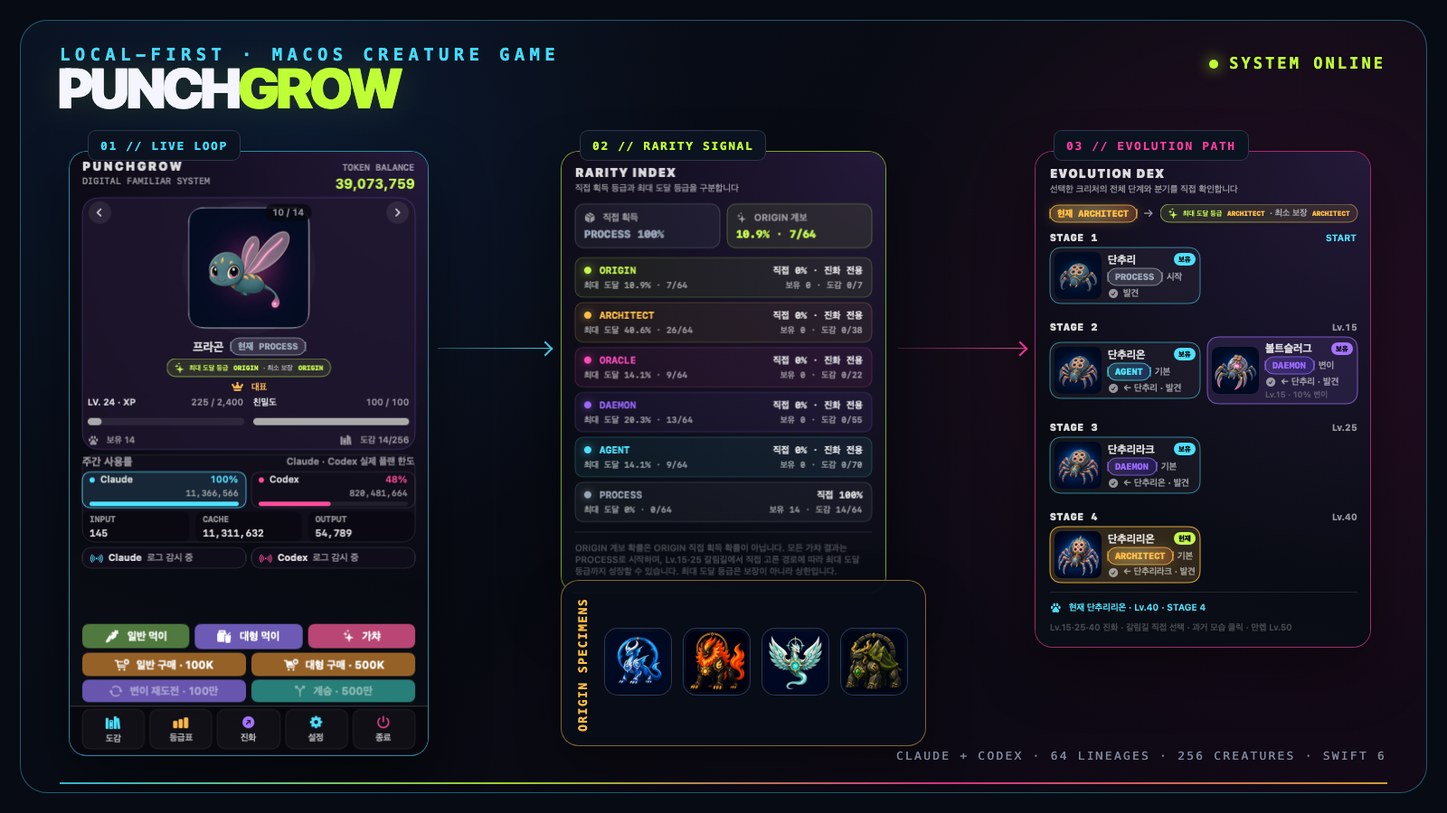
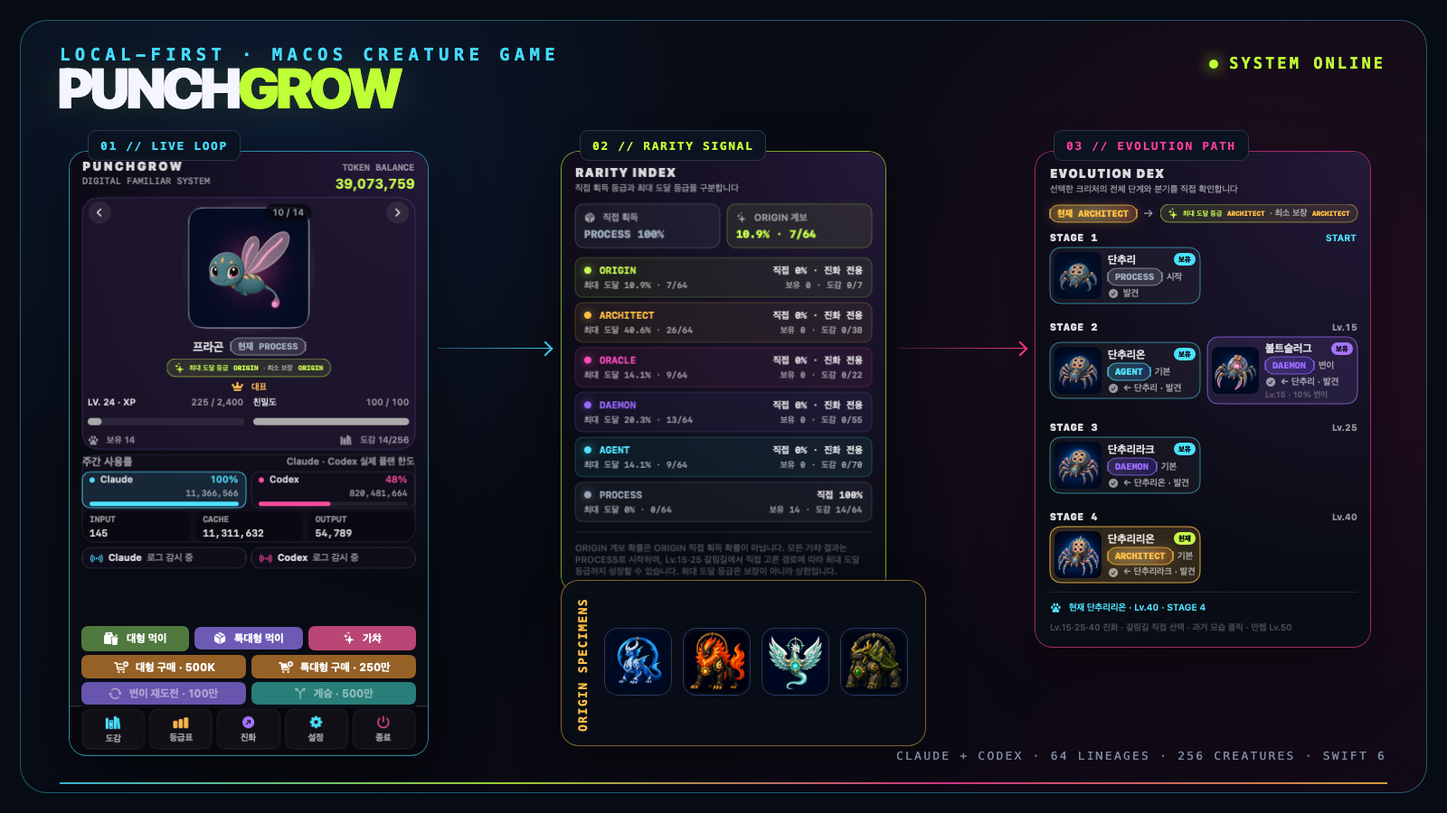
docs: document unreleased runtime and food changes
Separate Homebrew v0.4.0 behavior from current main, update bilingual guides and screenshots, and record the performance and durability decisions.

Changed region(s): [[0.0625, 0.7467, 0.2812, 0.8711]]

diff --git a/DESIGN.md b/DESIGN.md
@@ -3,7 +3,7 @@
 ## Source of truth
 
 - Status: Active
-- Last refreshed: 2026-08-14
+- Last refreshed: 2026-08-19
 - Primary product surfaces: macOS ambient menu-bar badge and popup, macOS large window, dedicated ORIGIN reveal window, public website (`/`, `/en/`), public creature dex (`/dex/`, `/en/dex/`), and retained mobile exploration
 - Evidence reviewed: `.omx/plans/prd-macos-ux-redesign.md`, `.omx/plans/test-spec-macos-ux-redesign.md`, `문서/WIREFRAMES.md`, `문서/DECISIONS.md`, the existing SwiftUI views, evolution catalog, creature assets, 398×670 populated/fresh-state menu snapshots, `website/` source and build contracts, public README/community files, and the deployed GitHub Pages response
 - Scope note: the approved PRD and wireframes remain authoritative for product behavior. This file summarizes their design contract.
@@ -17,7 +17,7 @@
 ## Product goals
 
 - Goals: make the current creature and grow/draw loop immediately understandable; distinguish current rarity from automatic-evolution potential at a glance; make integration state trustworthy; keep collection and data management easy to find; let a public visitor install, inspect source, understand privacy, explore the dex, or start contributing without guessing
-- Non-goals: shop, detailed statistics, combat, evolution, or economy changes in this macOS iteration
+- Non-goals: shop, detailed statistics, combat, evolution changes, or economy changes beyond the two-tier food redesign in this macOS iteration
 - Success signals: users can distinguish balance from usage, navigate creatures, choose a representative, understand disabled actions, and configure Claude/Codex without guessing; public visitors can identify the supported Mac, current alpha/release status, Homebrew and source-build paths, license boundary, and correct support/security route from the first page
 
 ## Personas and jobs
@@ -45,7 +45,7 @@
 
 ## Visual language
 
-- Color: near-black violet background, layered plum surfaces, lime growth accent, cyan Claude accent, magenta Codex accent; rarity tokens progress through slate PROCESS, cyan AGENT, violet DAEMON, magenta ORACLE, metallic amber ARCHITECT, and lime-cyan iridescent ORIGIN. The compact action deck uses muted, medium-dark semantic fills rather than full-bright provider/rarity accents: moss for normal food, violet for large food, rose for draw, amber for purchases, indigo for mutation retry, and teal for inheritance. All action labels use white for consistent contrast. The public website uses the same palette as a restrained digital-familiar specimen terminal, with readable muted text rather than decorative low-contrast gray.
+- Color: near-black violet background, layered plum surfaces, lime growth accent, cyan Claude accent, magenta Codex accent; rarity tokens progress through slate PROCESS, cyan AGENT, violet DAEMON, magenta ORACLE, metallic amber ARCHITECT, and lime-cyan iridescent ORIGIN. The compact action deck uses muted, medium-dark semantic fills rather than full-bright provider/rarity accents: moss for large food in the first slot, violet for extra-large food, rose for draw, amber for purchases, indigo for mutation retry, and teal for inheritance. All action labels use white for consistent contrast. The public website uses the same palette as a restrained digital-familiar specimen terminal, with readable muted text rather than decorative low-contrast gray.
 - Typography: strong geometric headings, monospaced micro-labels and values, readable Korean body copy; the dependency-free website uses truthful system sans/monospace stacks instead of naming fonts it does not ship
 - Spacing/layout rhythm: compact 8–16 point rhythm; large-window 12–24 point rhythm
 - Shape/radius/elevation: soft 10–18 point radii, subtle one-pixel borders, restrained colored glows for hierarchy
@@ -55,7 +55,7 @@
 ## Components
 
 - Existing components to reuse: SwiftUI navigation, buttons, progress views, AppKit file panels, bundled creature PNGs; website shell/header, hero, metrics, screenshots, ORIGIN cards, privacy terminal, code window, dex filters/cards/dialog, and shared CSS tokens
-- New/changed components: ambient menu-bar status label, compact presentation projection, one-line integration status chips, rarity-token creature hero with overlaid navigation and unified badge/frame/aura, automatic-evolution potential label, compact rarity/probability popover, three-row normal/large food, draw, retry, and inheritance action deck with press-and-hold acceleration, collection cards, settings panels, rarity feedback, ORIGIN-lineage feedback, ORIGIN reveal
+- New/changed components: ambient menu-bar status label, compact presentation projection, one-line integration status chips, rarity-token creature hero with overlaid navigation and unified badge/frame/aura, automatic-evolution potential label, compact rarity/probability popover, three-row large/extra-large food, draw, retry, and inheritance action deck with press-and-hold acceleration, collection cards, settings panels, rarity feedback, ORIGIN-lineage feedback, ORIGIN reveal
 - Menu-bar status label: a native-height, single-row ambient pet HUD with an 18-point representative creature plus independent cyan `C n%` and magenta `X n%` actual plan-limit percentages; unavailable provider quota data renders as an em dash rather than an estimate.
 - Variants and states: empty/one/many creatures; enabled/disabled actions; stopped/listening/recent/error integrations; ordinary pull, ORIGIN-lineage pull, and actual ORIGIN reveal feedback
 - Token/component ownership: macOS visual tokens and components remain in `macos/Sources/PunchGrowMenuBar/Views.swift`
@@ -73,7 +73,7 @@
 
 - Supported breakpoints/devices: macOS 14+; fixed compact popup and resizable large/reveal windows; website breakpoints target desktop, tablet, 390px mobile, and a 320px minimum and receive static source/build review when browser capture is unavailable
 - Layout adaptations: the 398×670 popup stays below the menu bar and its main play surface contains no scroll container. The populated and fresh states must show the complete hero, both provider percentages, both connection states, all seven actions, and all five dock destinations without clipping or action/dock overlap. Creature navigation overlays the artwork zone, mutation/evolution attention shares one priority slot, provider controls share one row, setup clarification stays to one visible line with full text in help, and compact labels remain at least 9.5 points while actionable/supporting copy remains at least 10.5 points. Detailed collection, rarity, evolution, and settings surfaces may use their own appropriately bounded scrolling.
-- Touch/hover differences: desktop-native focus, hover help, tooltips, and pointer-sized controls; normal/large feed and purchase use one click for one action and continuous press for accelerating repeat, with release stopping immediately
+- Touch/hover differences: desktop-native focus, hover help, tooltips, and pointer-sized controls; large/extra-large feed and purchase use one click for one action. A 240ms continuous press arms repeat at an 80ms interval, subtracting 8ms after each action to a 35ms minimum. Release immediately cancels further repeats; if one action is already committing, that commit finishes without scheduling another action.
 - Website adaptations: the 980px and 720px breakpoints collapse grids without horizontal overflow; touch targets remain at least 44px where compact controls are used; mobile navigation remains readable without JavaScript and becomes a controlled menu when JavaScript is present
 
 ## Interaction states
@@ -83,7 +83,7 @@
 - Error: visible text and symbol accompany error color
 - Success: a successful draw focuses the acquired creature and reports both `현재 <등급>` and `성장 잠재력 <최종 자동 진화 등급>`; an ORIGIN lineage receives distinct compact feedback without invoking the actual-ORIGIN reveal window
 - Disabled: cost or prerequisite explanations remain visible beside disabled actions
-- Repeated action: hold feedback remains native and stops immediately on pointer release, disable, inventory exhaustion, or insufficient balance
+- Repeated action: hold feedback remains native. Each repeated action is serialized through a persistence actor and reaches the visible state only after its save finishes, keeping file synchronization off the main actor. Pointer release, disable, inventory exhaustion, insufficient balance, or another blocked result prevents another repeat; an already-started commit may finish once.
 - Offline/slow network: integrations are local; stopped, listening, recent, and error states derive from the shared projection
 
 ## Content voice
@@ -96,11 +96,11 @@
 
 - Framework/styling system: SwiftUI plus existing AppKit bridges; dependency-free static HTML/CSS/JavaScript for the GitHub Pages website
 - Design-token constraints: extend repo-native constants; add no UI dependency or parallel design-system package
-- Performance constraints: reuse the bounded creature image cache for the menu-bar thumbnail, keep popup animation brief, and honor reduced motion; keep the website dependency-free, lazy-load non-hero images, debounce dex search, and allow off-screen lineage rendering to be skipped by the browser
-- Compatibility constraints: preserve G001 APIs, schema version 2 saves, probabilities, pity, and local-first security boundaries; older saves decode the new large-food inventory as zero. Preserve GitHub Pages routes, custom domain, locale parity, and direct asset/link validity.
+- Performance constraints: reuse the bounded creature image cache for the menu-bar thumbnail, keep popup animation brief, and honor reduced motion; serialize hold-repeat persistence on a dedicated actor so encoding, replacement, and `fsync` do not block the main actor; keep the website dependency-free, lazy-load non-hero images, debounce dex search, and allow off-screen lineage rendering to be skipped by the browser
+- Compatibility constraints: preserve G001 APIs, schema version 2 save compatibility, probabilities, pity, and local-first security boundaries. Legacy normal-food inventory converts deterministically: each group of five becomes one large food and every remainder refunds 100,000 tokens; older saves decode extra-large inventory as zero. Preserve GitHub Pages routes, custom domain, locale parity, and direct asset/link validity.
 - Test/screenshot expectations: deterministic presentation helpers cover semantic state; populated and fresh 398×670 menu snapshots reject any main-surface `NSScrollView` and verify that the complete third action row and five-item dock occupy their fixed bands; release build, full tests, and all 256 assets are verification gates when the Xcode/CLT toolchain is valid. Website changes must pass both build validators, metadata/content contracts, 320px static layout review, keyboard/reduced-motion review, and a browser capture when a browser session is available.
 - Compact popup bottom safety: retain at least 26 points of outer bottom breathing room plus 6 points inside the footer; keep the footer fixed at the bottom, place every play action fully above it, and open rarity/probability/evolution details in dedicated popovers rather than increasing the fixed 398×670 surface height or reintroducing main-surface scrolling
-- Food action deck: keep the draw action in the first row beside normal and large feeding; place normal and large purchases in a second compact row. Large food uses a distinct purple treatment and grants XP +200 / affection +10 for 500,000 tokens.
+- Food action deck: keep the draw action in the first row beside large and extra-large feeding; place large and extra-large purchases in a second compact row. Existing large food moves into the first slot unchanged at 500,000 tokens for XP +200 / affection +10. Extra-large food occupies the second slot at 2,500,000 tokens for XP +1,000 / affection +50, preserving exactly the same token efficiency.
 - Action color ownership: action-deck fills are dedicated `PunchGrowColors` tokens in `Views.swift`; do not reuse the brighter global provider, rarity, warning, or progress accents as solid button backgrounds.
 - Evolution potential contract: derive one automatic path from `EvolutionCatalog`'s production candidate order; never hard-code ORIGIN roots. A newly drawn start computes from that start, while an owned or branched creature computes forward from its actual current species; the root is used only to show the full Evolution Dex tree. The hero uses a separate one-line potential label, pull feedback distinguishes lineage potential from actual rarity, Evolution Dex visibly marks every current-forward automatic-path card, and the rarity guide separates `PROCESS 100% direct pull` from `ORIGIN lineage n/64`.
 

diff --git a/문서/DECISIONS.md b/문서/DECISIONS.md
@@ -629,3 +629,43 @@
 **왜:** `website/scripts/build.mjs`, Dockerfile, Compose, Expo Router, macOS CI와 100개 이상의 검증 스크립트가 현재 경로를 명시적으로 참조한다. 겉모양만 위해 폴더를 옮기면 공개 링크·빌드·감사 증거를 동시에 깨뜨릴 위험이 크다. 반면 역할 인덱스, 커뮤니티 템플릿, 중복 CNAME 제거와 배포 계약 검증은 현재 동작을 유지하면서 처음 방문한 사람이 저장소를 이해하는 비용을 크게 줄인다. 홈페이지가 소스 빌드만 가능하다고 말하면서 README는 Homebrew를 권장하던 불일치와, JavaScript 실패 시 `.reveal` 콘텐츠 전체가 사라지던 구현은 공개 신뢰를 직접 해치므로 같은 범위에서 바로잡는다.
 
 **이전 결정과의 관계:** 2026-08-12의 GitHub Pages·`punchgrow.thundo.kr` 결정을 운영 가능한 공개 문서 표면으로 완성한다. 기존 Expo 모바일 앱 유지, macOS 우선순위, GitHub Pages 정적 호스팅과 백엔드 미포함 원칙은 바꾸지 않는다.
+
+### 2026-08-18 — 로컬 우선 원칙을 실행·파일·네트워크 신뢰 경계로 강제한다
+
+**결정:** Claude 사용량 새로고침은 사용자가 수집에 명시적으로 동의한 뒤에만 실행 파일을 찾고 프로세스를 시작하며, 취소 시 전용 프로세스 그룹 전체를 종료한다. 상태·캐시·Claude/Codex 로그는 크기 상한을 둔 일반 파일만 읽고, 신뢰한 디렉터리 descriptor에서 각 하위 경로를 `openat` + `O_NOFOLLOW`로 열어 심볼릭 링크와 경로 교체를 따라가지 않는다. 계속 쓰이는 JSONL은 처음 확보한 device·inode와 크기 경계까지만 읽는다. 앱이 관리하는 상태·캐시는 디렉터리 `0700`, 파일 `0600`으로 제한하고 임시 파일을 같은 디렉터리에 완전히 쓴 뒤 `fsync`와 `renameat`으로 교체한다. 연결 해제 시에도 같은 descriptor 경계 안에서 일반 파일만 `unlinkat`으로 지우며, 크래시로 남은 정확한 UUID 임시 캐시 이름까지 함께 지우되 유사 이름·심볼릭 링크·디렉터리·부모 경로 교체는 거부한다. 사용자가 직접 고른 백업 파일은 기존 제품 권한 모델을 유지하되 최종 파일 심볼릭 링크와 과대 파일을 거부한다.
+
+웹 실험 API는 기본적으로 `127.0.0.1`에만 열고 구현되지 않은 외부 인증 모드는 거부한다. 세션 발급은 주소별·전체 속도 제한을 적용하고, 토큰 수집기는 32바이트 이상 비밀값이 명시된 경우에만 활성화하며 브라우저 프록시가 그 비밀값을 전달하지 못하게 한다. CORS는 설정한 정확한 origin만 허용한다. 공개 정적 사이트는 인라인 스타일 없이 잠긴 CSP와 `no-referrer` 정책을 사용한다. 업데이트 응답과 릴리스 링크는 PunchGrow의 정확한 GitHub HTTPS 경로만 신뢰한다.
+
+CI 액션과 Docker 실행 기반 이미지는 검증한 digest로 고정하고, 알려진 패치가 있는 전이 의존성은 override로 올린다. 현재 Metro가 끌어오는 `image-size`의 ICNS/JXL/HEIF DoS는 패치 릴리스가 없으므로 강제 Expo 다운그레이드를 하지 않는다. PunchGrow 빌드 입력은 저장소의 검증된 PNG 자산으로 한정되어 해당 파서를 호출하지 않는다는 전제 아래 잔여 위험으로 기록하고, 상위 패키지에 호환 패치가 나오면 갱신한다.
+
+**왜:** 기존 코드는 대부분 로컬 데이터만 다뤘지만, 로컬이라는 설명만으로는 동의 전 외부 프로세스 실행, 심볼릭 링크를 통한 범위 이탈, 실수로 공개된 개발 서버, 공급망 태그 이동을 막지 못한다. 제품 문서의 개인정보 약속을 코드가 직접 집행하고, 정상적인 append-only 로그 처리와 Expo 57 호환성을 유지하면서 실제 공격 표면만 닫기 위해 경계를 각각 독립적으로 고정한다.
+
+### 2026-08-19 — 10초 수집 주기를 유지하되 변한 데이터만 읽고 쓴다
+
+**결정:** Claude·Codex 로컬 사용량의 10초 스캔 주기, 프로바이더별 4MB 본문 읽기 예산, 백로그 처리 규칙은 유지한다. 대신 스캔 결과가 기존 캐시와 같으면 디스크에 다시 쓰지 않고, 앱 전용 캐시는 개행·정렬 없는 압축 JSON과 소수 초를 보존하는 Unix 초 숫자로 저장한다. 기존 ISO 8601 pretty JSON은 하위 호환 디코더로 계속 읽는다.
+
+Codex 주간 한도를 갱신하는 1MB 테일 읽기는 캐시된 `observedAt + 5초`보다 수정 시각이 늦은 파일만 후보로 삼고, 기존과 같이 최대 32개만 최신 순으로 읽는다. 캐시된 한도가 없는 첫 실행에는 안전한 초기화를 위해 기존처럼 최신 32개를 읽는다. 파일 식별자를 별도로 영구 캐시하는 복잡도는 실제 부하가 다시 확인될 때까지 추가하지 않는다.
+
+**왜:** Apple M4·16GB, JSONL 1,251개·약 17.6GB 환경에서 유휴 시 CPU는 0%로 안정됐고 앱 이미지 캐시나 지속적인 메모리 누수는 관찰되지 않았다. 반면 10~11초마다 스캔이 시작될 때 최대 32MB의 Codex 테일을 다시 읽고 5.36MB 캐시를 교체하는 일이 반복됐다. 수정 후 캐시는 3.89MB로 27% 줄었고, 동일 앱 교차 측정에서 2분 당 CPU 시간은 4.97→3.87초(-22%), 디스크 읽기는 305→150MiB(-51%), 메모리 footprint 95백분위는 121→87MiB(-28%)로 줄었다. 수집 정확도·실시간성·개인정보 경계는 그대로 유지하고 반복 I/O만 제거한다.
+
+### 2026-08-19 — macOS 먹이는 대형·특대형 두 단계로 단순화한다
+
+**결정:** macOS에서 일반 먹이의 구매·급여 UI를 제거한다. 기존 대형 먹이는 가격 500,000토큰, XP +200, 친밀도 +10을 그대로 유지한 채 첫 번째 먹이 슬롯으로 옮긴다. 두 번째 슬롯에는 특대형 먹이를 추가한다. 특대형은 2,500,000토큰에 XP +1,000, 친밀도 +50을 주는 대형의 정확한 5배 묶음으로, 두 먹이의 토큰당 효율은 같다.
+
+기존 세이브에 남은 일반 먹이는 5개당 대형 먹이 1개로 전환하고, 5개 미만 나머지는 1개당 100,000토큰을 환급한다. 구매·급여 버튼은 클릭 시 1회 실행하고, 240ms 동안 누르면 80ms 간격으로 반복을 시작한다. 반복할 때마다 간격을 8ms씩 줄여 최소 35ms까지 가속하며, 포인터를 떼거나 잔액 부족·인벤토리 소진·만렙에서 친밀도 100 도달·진화 선택 대기처럼 동작이 막히면 즉시 멈춘다. 만렙이어도 친밀도가 남아 있으면 급여할 수 있다는 기존 규칙은 유지한다.
+
+**왜:** 일반 먹이는 대형보다 조작 횟수가 많으면서 성장 효율도 낮아, 첫 슬롯이 사실상 저효율 반복 작업을 권하는 구조였다. 대형을 기본 단위로 올리고 특대형을 동일 효율의 5배 묶음으로 두면 선택 기준은 성장 효율이 아니라 원하는 지출·성장 단위가 된다. 레거시 일반 먹이를 5:1 전환하고 나머지를 원래 구매가로 환급하면 사용자가 이미 지불한 토큰 가치도 정확히 보존된다. 짧은 무반응 구간 뒤 빠르게 가속하는 고정 타이밍은 단일 클릭을 보존하면서 대량 구매·급여의 대기 시간을 줄인다.
+
+**이전 결정과의 관계:** 2026-08-05의 대형 먹이 후속 확정 중 일반·대형 병행 UI와 기존 반복 조작 규칙을 대체한다. 대형 먹이 자체의 가격·효과·별도 인벤토리 원칙은 유지한다.
+
+### 2026-08-19 — 반복 저장은 직렬 커밋 뒤 화면에 반영한다
+
+**결정:** 길게 누르기 구매·급여의 저장은 전용 `GameStatePersistenceWriter` actor에서 한 번에 하나씩 직렬 처리한다. JSON 인코딩, 임시 파일 쓰기, 파일 `fsync`, atomic rename과 디렉터리 `fsync`는 `MainActor`를 점유하지 않는다. 화면 상태와 급여·진화 피드백은 해당 동작의 저장 결과가 돌아온 뒤에만 한 번 반영한다. rename 전에 저장이 실패하면 화면 상태를 바꾸지 않고 반복을 중단한다.
+
+포인터를 떼면 새 반복 예약은 즉시 취소한다. 이미 writer actor에서 진행 중인 1회 커밋은 끝까지 마친 뒤 그 결과만 화면에 반영하며, 그 뒤에는 추가 구매·급여를 실행하지 않는다. 따라서 해제 직전 시작한 동작이 사라지거나 같은 상태에서 한 번 더 실행되는 일 없이, 디스크와 화면이 동작 단위로 함께 전진한다.
+
+atomic rename이 성공한 뒤 디렉터리 `fsync` 확인만 실패한 경우는 미커밋 실패로 취급하지 않는다. rename 시점에 새 파일이 이미 라이브 상태이므로 새 상태를 화면에 반영하고 저장 잠금과 경고를 켠다. 이후 구매·급여·가챠·진화 선택 등 게임 상태 변경은 차단하고, **Data & Settings**에서 백업을 복원해야 잠금을 해제한다.
+
+**왜:** 35ms까지 가속되는 반복마다 동기 저장을 `MainActor`에서 실행하면 파일 쓰기와 `fsync` 동안 버튼 해제·화면 갱신이 지연된다. 반대로 화면부터 바꾸고 저장하면 실패 시 보였던 결과를 되돌려야 하며, 디스크와 메모리가 갈라질 수 있다. 특히 rename 뒤 디렉터리 `fsync` 실패를 평범한 저장 실패로 되돌리면 디스크에는 새 상태가 있는데 화면은 이전 상태에 머물러, 재시도할 때 토큰 차감이나 급여가 중복될 수 있다. 직렬 저장 후 공개와 post-rename 경고 잠금은 반응성과 단일 커밋 의미를 함께 지킨다.
+
+**이전 결정과의 관계:** 같은 날의 "macOS 먹이는 대형·특대형 두 단계로 단순화한다"에서 정한 240ms/80ms/35ms/8ms 타이밍은 바꾸지 않고, 포인터 해제와 저장 완료의 순서를 명확히 한다. 2026-08-18의 descriptor 기반 atomic write·`fsync` 원칙은 유지하되, rename 이후 디렉터리 동기화 확인 실패의 화면·잠금 처리를 추가한다.

diff --git a/문서/PRD.md b/문서/PRD.md
@@ -35,8 +35,10 @@ Claude Code 토큰 사용량 + 무료 보상
 - 토큰은 누적 활동 점수만이 아니라 실제로 소비하는 잔액이다.
 - 가챠를 실행하거나 크리처 육성에 필요한 아이템을 구매하면 토큰이 차감된다.
 - MVP 기본 육성 아이템은 `먹이(경험치 상승)`, `훈련 도구(특정 스탯 상승)`, `진화 재료(진화 조건 충족)`로 구성한다.
-- macOS MVP에서 먹이 1개는 보유 토큰 100,000개로 구매한다. 팝업의 `먹이 +1` 액션에서 즉시 구매하며, 잔액 차감과 인벤토리 증가는 하나의 저장 작업으로 처리한다.
-- macOS MVP의 `대형 먹이`는 일반 먹이와 별도 보관하며 1개당 500,000 토큰이다. 사용 시 XP +200, 친밀도 +10을 주고, 구매·급여 모두 길게 눌러 가속 연속 실행할 수 있다. 기존 스키마 2 세이브에는 대형 먹이 수량을 0으로 보완한다.
+- macOS MVP는 `대형 먹이`를 첫 번째 먹이 슬롯에 둔다. 1개당 500,000토큰이며 사용 시 XP +200, 친밀도 +10을 준다.
+- macOS MVP의 `특대형 먹이`는 대형 먹이와 별도 보관한다. 1개당 2,500,000토큰이며 사용 시 XP +1,000, 친밀도 +50을 주는 정확한 5배 묶음이라 토큰당 효율은 대형 먹이와 같다.
+- macOS의 구매·급여 버튼은 클릭 시 1회 실행한다. 240ms 동안 누르면 80ms 간격으로 반복을 시작하고, 실행할 때마다 간격을 8ms씩 줄여 최소 35ms까지 가속한다. 손을 떼거나 잔액·인벤토리·성장 상태 때문에 동작이 막히면 즉시 멈춘다.
+- 기존 macOS 세이브의 일반 먹이는 5개당 대형 먹이 1개로 전환하고, 나머지는 1개당 100,000토큰을 환급한다. 전환과 환급은 한 번만 적용하며 기존 구매 가치를 보존한다. 특대형 먹이 수량이 없는 기존 세이브는 0으로 보완한다.
 - 첫 버전부터 다음 아이템 범주를 모두 포함한다.
   - 먹이: 경험치 상승
   - 훈련 도구: 특정 스탯 상승
@@ -324,6 +326,9 @@ https://chattymin.github.io/PokeTokenBar — macOS 메뉴바 앱, 로컬 CLI 로
 - 변이(25종)는 선택 대상이 아니다. 해당 계보에 변이 후보가 있는 개체가 Lv.15에서 S1→S2로 진화하는 순간마다 10% 확률로 발동해 수락/거절을 묻는다. 수락하면 변이체(그 자리에서 성장이 끝나는 종착 종)로 진화하고, 거절하면 원래 선택·예약해 둔 대상으로 이어진다. 강제 변이는 없다.
 - 변이를 만날 기회를 지나친 개체는 회당 1,000,000토큰·10%, 계보당 30회 실패 시 확정 성공하는 `변이 재도전`으로 그 계보의 변이체를 새 개체로 다시 노릴 수 있다. `계승`(5,000,000토큰)은 종착 종에 도달한 개체를 대상으로 같은 계보의 시작형 신규 개체를 얻어 다른 일반 분기를 다시 육성하는 용도로 쓰인다.
 - 새 성장 만렙은 Lv.50이다. 기존 Lv.51~100 저장은 유지하되 추가 레벨 상승은 없다.
+- 먹이는 대형·특대형 두 종류만 제공한다. 대형은 500,000토큰에 XP +200·친밀도 +10, 특대형은 2,500,000토큰에 XP +1,000·친밀도 +50이며 두 종류의 토큰당 효율은 같다. 대형은 기존 첫 번째 먹이 슬롯을 사용한다.
+- 대형·특대형 구매와 급여는 클릭 1회 또는 가속 반복을 지원한다. 반복은 240ms 누름 후 80ms 간격으로 시작하고 실행마다 8ms씩 단축되어 최소 35ms가 되며, 손을 떼거나 동작이 막히면 즉시 끝난다.
+- 레거시 일반 먹이 인벤토리는 5:1로 대형 먹이로 바꾸고, 나머지는 개당 100,000토큰으로 환급한다.
 - 만렙 도달은 골드 축전으로 표시한다 — 급여로 50에 도달하는 전이 순간에만 `LEVEL MAX` 토스트가 한 번 뜨고, 만렙 개체(레거시 Lv.51~100 포함)는 메인 카드의 포트레이트 테두리·LV 게이지가 골드로 유지되며 크리처 이미지 안의 머리 위에 배경·배지 없는 금색 왕관을 쓴다. 왕관은 종·등급·진화 단계와 무관하게 만렙인 모든 보유 개체에 공통 적용한다. 능력치·토큰 보상은 없다.
 - 먹이 한 번으로 여러 진화 기준을 이미 충족한 기존 개체는 가능한 단계를 순서대로 따라잡는다. 다만 그 과정에서 변이 확률이 발동하면 진화를 적용하기 전에 멈추고 수락/거절을 먼저 물은 뒤 나머지 단계를 이어간다 — 이 경우 연쇄 진화가 급여 2회로 나뉠 수 있다.
 - 진화는 개체 ID, 레벨, XP 잔여분, 친밀도, 별명, 유니크 컬러, 획득일과 대표 지정을 유지하고 종 ID와 발견 도감만 갱신한다.

diff --git a/CHANGELOG.md b/CHANGELOG.md
@@ -2,6 +2,29 @@
 
 ## Unreleased
 
+### Added
+
+- macOS에 `특대형 먹이`를 추가했습니다. 2,500,000토큰으로 구매하며 XP +1,000·친밀도 +50을 올려, 대형 먹이와 같은 토큰당 효율로 5배 단위를 한 번에 처리합니다.
+
+### Changed
+
+- macOS 먹이 구성을 대형·특대형 두 단계로 단순화했습니다. 기존 일반 먹이는 저장을 처음 불러올 때 5개당 대형 먹이 1개로 바꾸고 나머지는 개당 100,000토큰으로 한 번만 환급합니다.
+- 구매·급여를 240ms 누르면 80ms 간격으로 반복을 시작하고 실행마다 8ms씩 줄여 최소 35ms까지 가속합니다. 각 반복은 저장이 끝난 뒤 화면에 반영하며, 손을 떼면 저장 중인 1회만 마치고 추가 실행을 예약하지 않습니다.
+- 10초 사용량 수집 주기와 읽기 예산은 유지하면서, 결과가 바뀌지 않은 스캔은 캐시 파일을 다시 쓰지 않고 Codex 주간 한도는 캐시 시각보다 새로 수정된 로그만 후보로 읽습니다. 캐시는 더 작은 JSON 형식으로 저장하되 기존 ISO 8601 형식도 계속 읽습니다.
+- Claude 사용률 캐시 새로고침은 로그인 셸을 실행하지 않고 Homebrew·Volta·nvm·asdf·mise의 고정 설치 경로에서 Node를 찾도록 바꿨습니다.
+
+### Security
+
+- macOS 상태·사용량 캐시·Claude/Codex 로그를 신뢰한 디렉터리 안에서만 열고 심볼릭 링크, 경로 교체, 비정상 파일과 크기 초과를 거부합니다. 앱 관리 디렉터리·파일 권한을 제한하고 저장·삭제를 같은 디렉터리의 descriptor 경계 안에서 원자적으로 처리하며, 백업 복원도 심볼릭 링크와 20MB 초과 파일을 거부합니다.
+- 사용량 수집이 꺼져 있으면 Claude 새로고침용 Node 탐색과 프로세스 실행을 하지 않으며, 취소·시간 초과 시 전용 프로세스 그룹을 종료합니다. 업데이트 응답과 릴리스 노트 링크는 PunchGrow의 정확한 GitHub HTTPS 경로만 신뢰합니다.
+- 로컬 웹 실험 API는 기본적으로 `127.0.0.1`에만 열리고, 구현되지 않은 외부 인증 모드를 거부하며, 세션 발급 속도를 제한합니다. 토큰 수집은 32바이트 이상의 `COLLECTOR_SECRET`이 있을 때만 켜지고, CORS와 웹 프록시는 허용한 origin·header만 전달합니다.
+- 공개 사이트에 잠긴 CSP와 `no-referrer` 정책을 적용하고 배포 산출물의 인라인 스타일·허용되지 않은 스크립트·심볼릭 링크를 검증합니다. CI 액션과 Docker 기반 이미지를 commit·digest로 고정하고, `js-yaml`과 `nanoid`를 패치 버전으로 올렸습니다.
+
+### Fixed
+
+- 레벨 50·친밀도 100인 크리처에게 먹이를 써도 인벤토리만 줄어들던 동작을 막았습니다. 레벨 50이어도 친밀도가 남아 있으면 계속 먹일 수 있습니다.
+- 길게 누르기 반복 중 저장 실패가 나면 화면 상태를 바꾸지 않고 멈추며, 저장 완료 전에 백업 내보내기·복원이 끼어들지 못하게 했습니다. 파일 교체 뒤 디렉터리 동기화 확인만 실패한 경우에는 이미 반영된 상태를 유지하고 추가 변경을 잠가 중복 차감·급여를 방지합니다.
+
 ## 0.4.0 — 2026-08-18
 
 ### Added

diff --git a/docs/USAGE.en.md b/docs/USAGE.en.md
@@ -94,12 +94,20 @@ The first scan creates a **non-crediting baseline**. Current-week activity found
 
 ### Buy and feed food
 
+> **Version note:** Homebrew `v0.4.0` provides normal food at 100,000 tokens for XP +25 / affinity +3 and large food at 500,000 tokens for XP +200 / affinity +10. Its hold repeat arms after 360ms, starts at 110ms intervals, and accelerates to a 45ms minimum. The large/extra-large model below is available only on current `main` and is planned for the next release.
+
 | Item | Purchase | Growth |
 | --- | ---: | --- |
-| Normal food | 100,000 tokens | XP +25, affinity +3 |
 | Large food | 500,000 tokens | XP +200, affinity +10 |
+| Extra-large food | 2,500,000 tokens | XP +1,000, affinity +50 |
 
-Use **일반 구매** or **대형 구매** to add food to inventory, then use **일반 먹이** or **대형 먹이** on the currently displayed creature. A click performs one action. Press and hold a purchase or feed button to repeat the action at an accelerating rate; release to stop.
+Use **대형 구매 · 500K** or **특대형 구매 · 250만** to add food to inventory, then use **대형 먹이** or **특대형 먹이** on the currently displayed creature. Extra-large food costs and grants exactly five times as much as large food, so both tiers have the same token efficiency.
+
+A click performs one action. Holding starts repetition after 240ms. The repeat interval starts at 80ms, decreases by 8ms after each action, and stops decreasing at 35ms. Releasing the button immediately cancels further repeats. If one action is already being saved, that one save finishes and publishes its result, but no additional action runs. Each repeated result appears only after its save finishes.
+
+Repeating stops when tokens or food run out, or when a level-50 creature reaches 100 affinity. A level-50 creature with affinity remaining can still be fed. Feeding is blocked while a level-50 creature awaits an evolution choice.
+
+When current `main` loads a legacy save, every five normal-food items become one large food. Each remaining normal-food item refunds 100,000 tokens, preserving its original purchase value.
 
 ### Current rarity and maximum reachable rarity
 
@@ -168,6 +176,8 @@ In **Data & Settings**:
 - Select **백업 복원** (Restore backup) to load a compatible `.pgrow` file.
 
 A backup includes creatures, tokens, progression, inventory, and normalized usage numbers. It does not include prompts, responses, source code, commands, or raw local log content. Keep your `.pgrow` file before moving to another Mac or erasing local app data.
+
+If PunchGrow replaces the state file but cannot confirm the final directory sync, it keeps the already-committed result visible and shows a warning. Further game changes remain locked until you restore a backup from **Data & Settings**.
 
 ## Update checks and notifications
 

diff --git a/README.md b/README.md
@@ -46,7 +46,7 @@
 
 | 릴리스 v0.4.0 | 현재 main |
 | --- | --- |
-| **2026-08-18 Homebrew 릴리스**<br />64개 시작 계보 · 256종 · 64개 중 ORIGIN 도달 계보 7개(약 10.9%)<br />ad-hoc 서명 · Developer ID 서명과 Apple 공증 예정 | **현재 소스·공개 도감**<br />64개 시작 계보 · 256종 · 64개 중 ORIGIN 도달 계보 7개(약 10.9%)<br />릴리스와 동일한 카탈로그 |
+| **2026-08-18 Homebrew 릴리스**<br />64개 시작 계보 · 256종 · 64개 중 ORIGIN 도달 계보 7개(약 10.9%)<br />일반·대형 먹이 · ad-hoc 서명 | **현재 소스·공개 도감**<br />릴리스와 동일한 64개 시작 계보 · 256종<br />대형·특대형 먹이와 더 빠른 길게 누르기 · 다음 릴리스 예정 |
 
 - **CI:** Full Xcode 환경에서 Swift 테스트, Release 빌드, 256개 크리처 리소스 조립과 ad-hoc 코드서명을 검증합니다.
 - **웹사이트:** [`punchgrow.thundo.kr`](https://punchgrow.thundo.kr)은 `website/`에서 GitHub Pages로 배포하는 정적 제품 소개·도감이며, 백엔드나 사용량 수집 기능이 없습니다.
@@ -145,13 +145,17 @@ macOS 앱은 로컬에서 실행되며 사용자가 명시적으로 활성화하
 <a name="game-engine"></a>
 ## 게임 규칙
 
-| 규칙 | 알파 기준 |
+> [!NOTE]
+> 아래 먹이 구성과 기존 일반 먹이 전환은 `v0.4.0` 이후의 현재 `main` 기준입니다. Homebrew `v0.4.0`은 일반·대형 먹이를 제공합니다.
+
+| 규칙 | 현재 main 기준 |
 | --- | --- |
 | 가챠 1회 | `500,000` 토큰 |
 | 가챠 결과 | 64종 PROCESS 시작형 중 하나 · PROCESS 100% |
 | ORIGIN 계보 | 64개 중 7개 · 최대 도달 등급 약 10.9% (직접 ORIGIN 뽑기 아님) |
-| 일반 먹이 | 구매 `100,000` 토큰 · XP `+25` · 친밀도 `+3` |
 | 대형 먹이 | 구매 `500,000` 토큰 · XP `+200` · 친밀도 `+10` |
+| 특대형 먹이 | 구매 `2,500,000` 토큰 · XP `+1,000` · 친밀도 `+50` (대형의 정확히 5배) |
+| 기존 일반 먹이 전환 | 5개당 대형 먹이 1개 · 남은 수량은 개당 `100,000` 토큰 환급 |
 | 유니크 컬러 | 매 가챠 `0.1%`, 능력 차이 없음 |
 | 중복 크리처 | 자동 분해 없이 별도 개체로 보유하고 서로 다르게 육성 가능 |
 | 진화 레벨 | Lv.15 → 2단계 · Lv.25 → 3단계 · Lv.40 → 4단계 |

diff --git a/README.en.md b/README.en.md
@@ -46,7 +46,7 @@
 
 | Release v0.4.0 | Current main |
 | --- | --- |
-| **2026-08-18 Homebrew release**<br />64 starting lineages · 256 creatures · 7 of 64 lineages can reach ORIGIN (about 10.9%)<br />Ad-hoc signed · Developer ID signing and Apple notarization pending | **Current source and public dex**<br />64 starting lineages · 256 creatures · 7 of 64 lineages can reach ORIGIN (about 10.9%)<br />Catalog matches the release |
+| **2026-08-18 Homebrew release**<br />64 starting lineages · 256 creatures · 7 of 64 lineages can reach ORIGIN (about 10.9%)<br />Normal and large food · ad-hoc signed | **Current source and public dex**<br />The same 64 starting lineages · 256 creatures<br />Large and extra-large food with faster press-and-hold · planned for the next release |
 
 - **CI:** Full Xcode verifies the Swift test suite, Release build, 256-creature resource assembly, and ad-hoc signature.
 - **Website:** [`punchgrow.thundo.kr`](https://punchgrow.thundo.kr/en/) is a static product site and dex deployed from `website/` through GitHub Pages. It has no backend or usage collection.
@@ -145,13 +145,17 @@ These are captures rendered by the current SwiftUI app. They use fixed documenta
 <a name="game-engine"></a>
 ## Game rules
 
-| Rule | Alpha value |
+> [!NOTE]
+> The food tiers and legacy normal-food conversion below describe current `main` after `v0.4.0`. Homebrew `v0.4.0` provides normal and large food.
+
+| Rule | Current main |
 | --- | --- |
 | One draw | `500,000` tokens |
 | Draw result | One of 64 PROCESS stage-one creatures · PROCESS 100% |
 | ORIGIN lineage | 7 of 64 starts · about 10.9% maximum reachable rarity, not a direct ORIGIN pull |
-| Normal food | Costs `100,000` tokens · XP `+25` · affinity `+3` |
 | Large food | Costs `500,000` tokens · XP `+200` · affinity `+10` |
+| Extra-large food | Costs `2,500,000` tokens · XP `+1,000` · affinity `+50` (exactly 5× large food) |
+| Legacy normal-food conversion | 5 items become 1 large food; each remainder refunds `100,000` tokens |
 | Unique color | Independent `0.1%` chance per draw, with no stat advantage |
 | Duplicate creatures | Kept as separate individuals that can be raised differently |
 | Evolution levels | Level 15 → stage 2 · level 25 → stage 3 · level 40 → stage 4 |

diff --git a/문서/IMPLEMENTATION_STATUS.md b/문서/IMPLEMENTATION_STATUS.md
@@ -1,6 +1,6 @@
 # PunchGrow 구현 현황
 
-기준 시각: 2026-08-11. 이 문서는 완료를 과장하지 않고 현재 실행 가능한 범위와 남은 차단점을 기록한다.
+기준 시각: 2026-08-19. 이 문서는 완료를 과장하지 않고 현재 실행 가능한 범위와 남은 차단점을 기록한다.
 
 ## 현재 실행 가능한 것
 
@@ -8,7 +8,7 @@
 - Node API: HMAC 서명 세션, 수집기 비밀키, 개인정보 필드 거부형 토큰 적립, 중복 방지, 주간 활동 보너스, 500,000토큰 가챠, 300회 실패 후 다음 ORIGIN 천장, 유니크 컬러 0.1%, 먹이 성장.
 - 웹 MVP: 실제 PostgreSQL 데이터로 주간 사용량, 잔액, 가챠, 천장, 보유 크리처, 도감, 먹이 성장을 표시한다.
 - Expo 기반: iOS·Android·Web 공용 화면이 같은 API의 실제 상태를 읽고 가챠와 먹이를 실행한다. `Cute Clarity v2` 기본 240종과 원초 계보 16종 카드 이미지, 가상화 도감, 미발견 실루엣, 안전 영역과 기본 접근성을 포함한다.
-- macOS 소스: SwiftUI `MenuBarExtra`, 실제 256종 이미지, 로컬 게임/백업, 제한 메모리 JSONL 자동 수집, 실제 Claude/Codex 주간 플랜 사용률, 일반·대형 먹이, 길게 누르기 가속, 등급별 효과와 Lv.15·25·40 진화 단계표가 구현되어 있다.
+- macOS 소스: SwiftUI `MenuBarExtra`, 실제 256종 이미지, 로컬 게임/백업, 제한 메모리 JSONL 자동 수집, 실제 Claude/Codex 주간 플랜 사용률, 대형·특대형 먹이, 240ms 누름 뒤 80→35ms로 가속하는 반복 실행, 레거시 일반 먹이의 5:1 전환·잔여분 환급, 등급별 효과와 Lv.15·25·40 진화 단계표가 구현되어 있다.
 - 배포 준비: 코드 MIT와 이미지 권리 유보를 분리했다. Homebrew Cask는 무결성 검증을 우회하지 않는 생성 템플릿만 제공한다.
 
 ## 검증된 것

diff --git a/macos/README.md b/macos/README.md
@@ -8,6 +8,9 @@ Current source version label: **v0.4.0** (`CFBundleShortVersionString` in
 `homebrew/Info.plist` is the single source the update check compares against).
 The published Homebrew v0.4.0 release and current `main` both contain 64
 starting lineages and 256 creatures.
+The shared version label and catalog do not imply binary feature parity. Unless
+a bullet explicitly names the release, implementation details below describe
+current `main`.
 For player-facing instructions, see the
 [Korean user guide](../docs/USAGE.md) or [English user guide](../docs/USAGE.en.md).
 
@@ -32,9 +35,13 @@ Claude Code or Codex logs.
   local cache exists; Codex comes from `rate_limits.primary.used_percent`.
   Missing values remain pending rather than being estimated, so Claude stays
   pending when the oh-my-claudecode cache has not been created.
-- Normal food costs 100,000 tokens and grants XP +25 / affinity +3. Large food
-  is stored separately, costs 500,000 tokens, and grants XP +200 / affinity +10.
-  Feed and purchase buttons support one click or accelerating press-and-hold.
+- On current `main`, large food occupies the first food slot, costs 500,000
+  tokens, and grants XP +200 / affinity +10. Extra-large food costs 2,500,000 tokens and grants XP
+  +1,000 / affinity +50, an exact 5x bundle with the same token efficiency.
+  Legacy normal food converts 5:1 into large food, with each remainder refunding
+  100,000 tokens. Feed and purchase buttons repeat after a 240ms hold, starting
+  at 80ms intervals, subtracting 8ms per action to a 35ms minimum, and stopping
+  on release or when the action becomes blocked.
 - Current `main` and the published Homebrew v0.4.0 release both draw uniformly
   from 64 PROCESS stage-one species. Direct draw rarity is PROCESS 100% in
   both. Feeding automatically

diff --git a/문서/WIREFRAMES.md b/문서/WIREFRAMES.md
@@ -21,7 +21,7 @@
    - 2마리 이상이면 좌우 순환 버튼과 `현재/전체` 표시; 0·1마리에서는 불필요한 버튼 숨김
    - 좌우 탐색은 현재 대상만 바꾸고 대표는 바꾸지 않음
    - 대표가 아닌 현재 크리처에는 `대표로 지정` 제공
-5. 첫 줄 `먹이 주기`, `대형 먹이`, `가챠`; 둘째 줄 `먹이 +1`, `대형 +1`과 각 비활성 이유
+5. 첫 줄 `대형 먹이`, `특대형 먹이`, `가챠`; 둘째 줄 `대형 구매 · 500K`, `특대형 구매 · 250만`과 각 비활성 이유
    - 먹이는 현재 크리처에게 사용
    - 가챠 성공 시 새 크리처가 현재 대상이 되지만 대표는 그대로 유지
 6. 하단 고정 도크 `도감 · 등급표 · 진화 · 설정 · 종료`
@@ -31,7 +31,7 @@
    - 진화는 현재 크리처의 시작형부터 최종형까지 이미지·이름·등급·획득 여부·분기·자동 경로와 Lv.15·25·40 기준을 진화도감 팝업으로 표시한다.
    - 종료는 다른 이동 버튼과 분리된 전원 아이콘·문구로 항상 보이게 한다.
 7. 하단 도크는 398×670 작은 화면 안에서 잘리지 않고 스크롤 없이 표시한다.
-8. 일반/대형 먹이 주기·구매는 클릭 1회 실행, 누르고 있으면 가속 연속 실행, 떼면 즉시 중지
+8. 대형/특대형 먹이 주기·구매는 클릭 1회 실행. 240ms 누르면 80ms 간격으로 반복을 시작하고 실행마다 8ms씩 단축해 최소 35ms까지 가속하며, 떼거나 동작이 막히면 즉시 중지
 
 ### 큰 창
 
